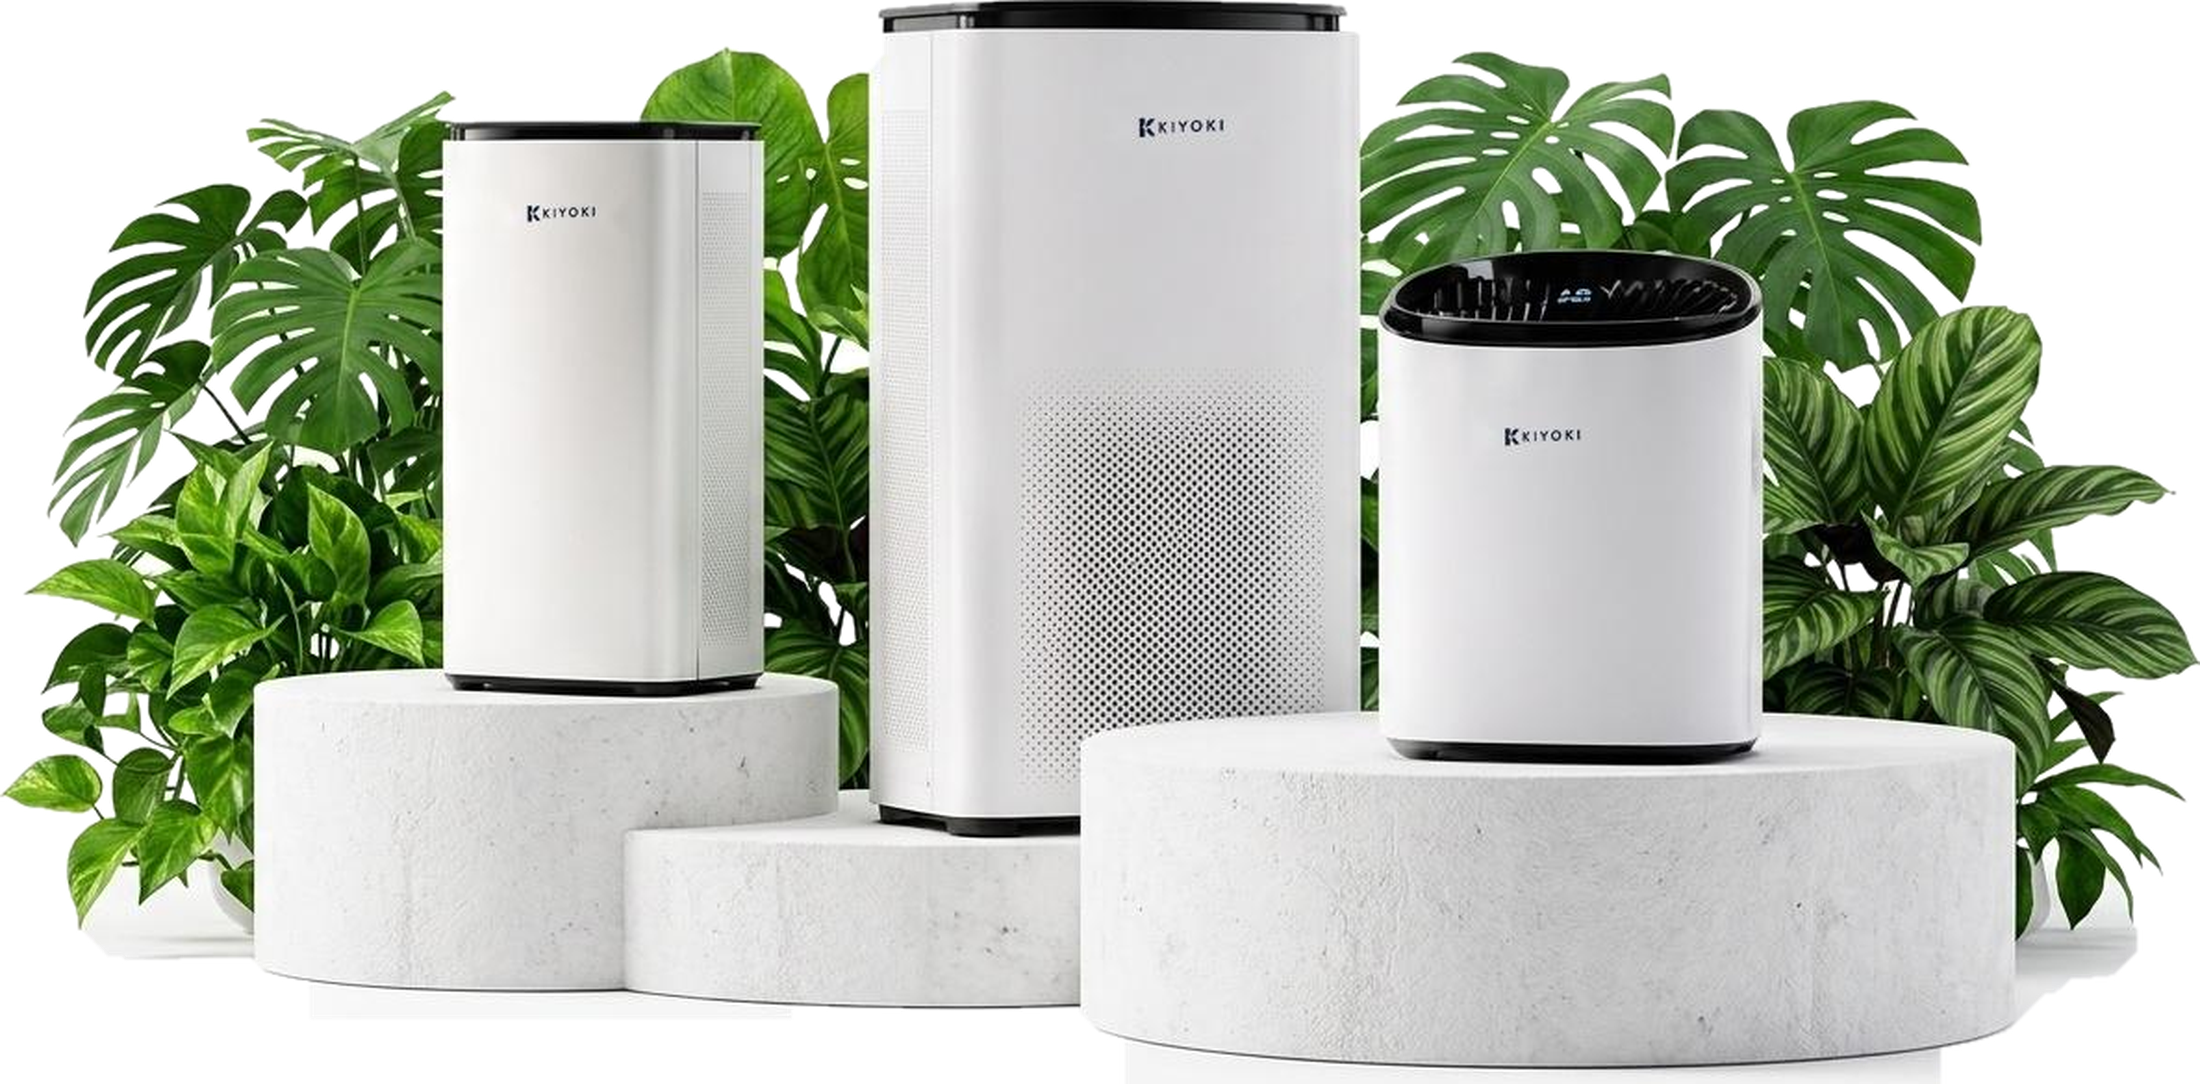
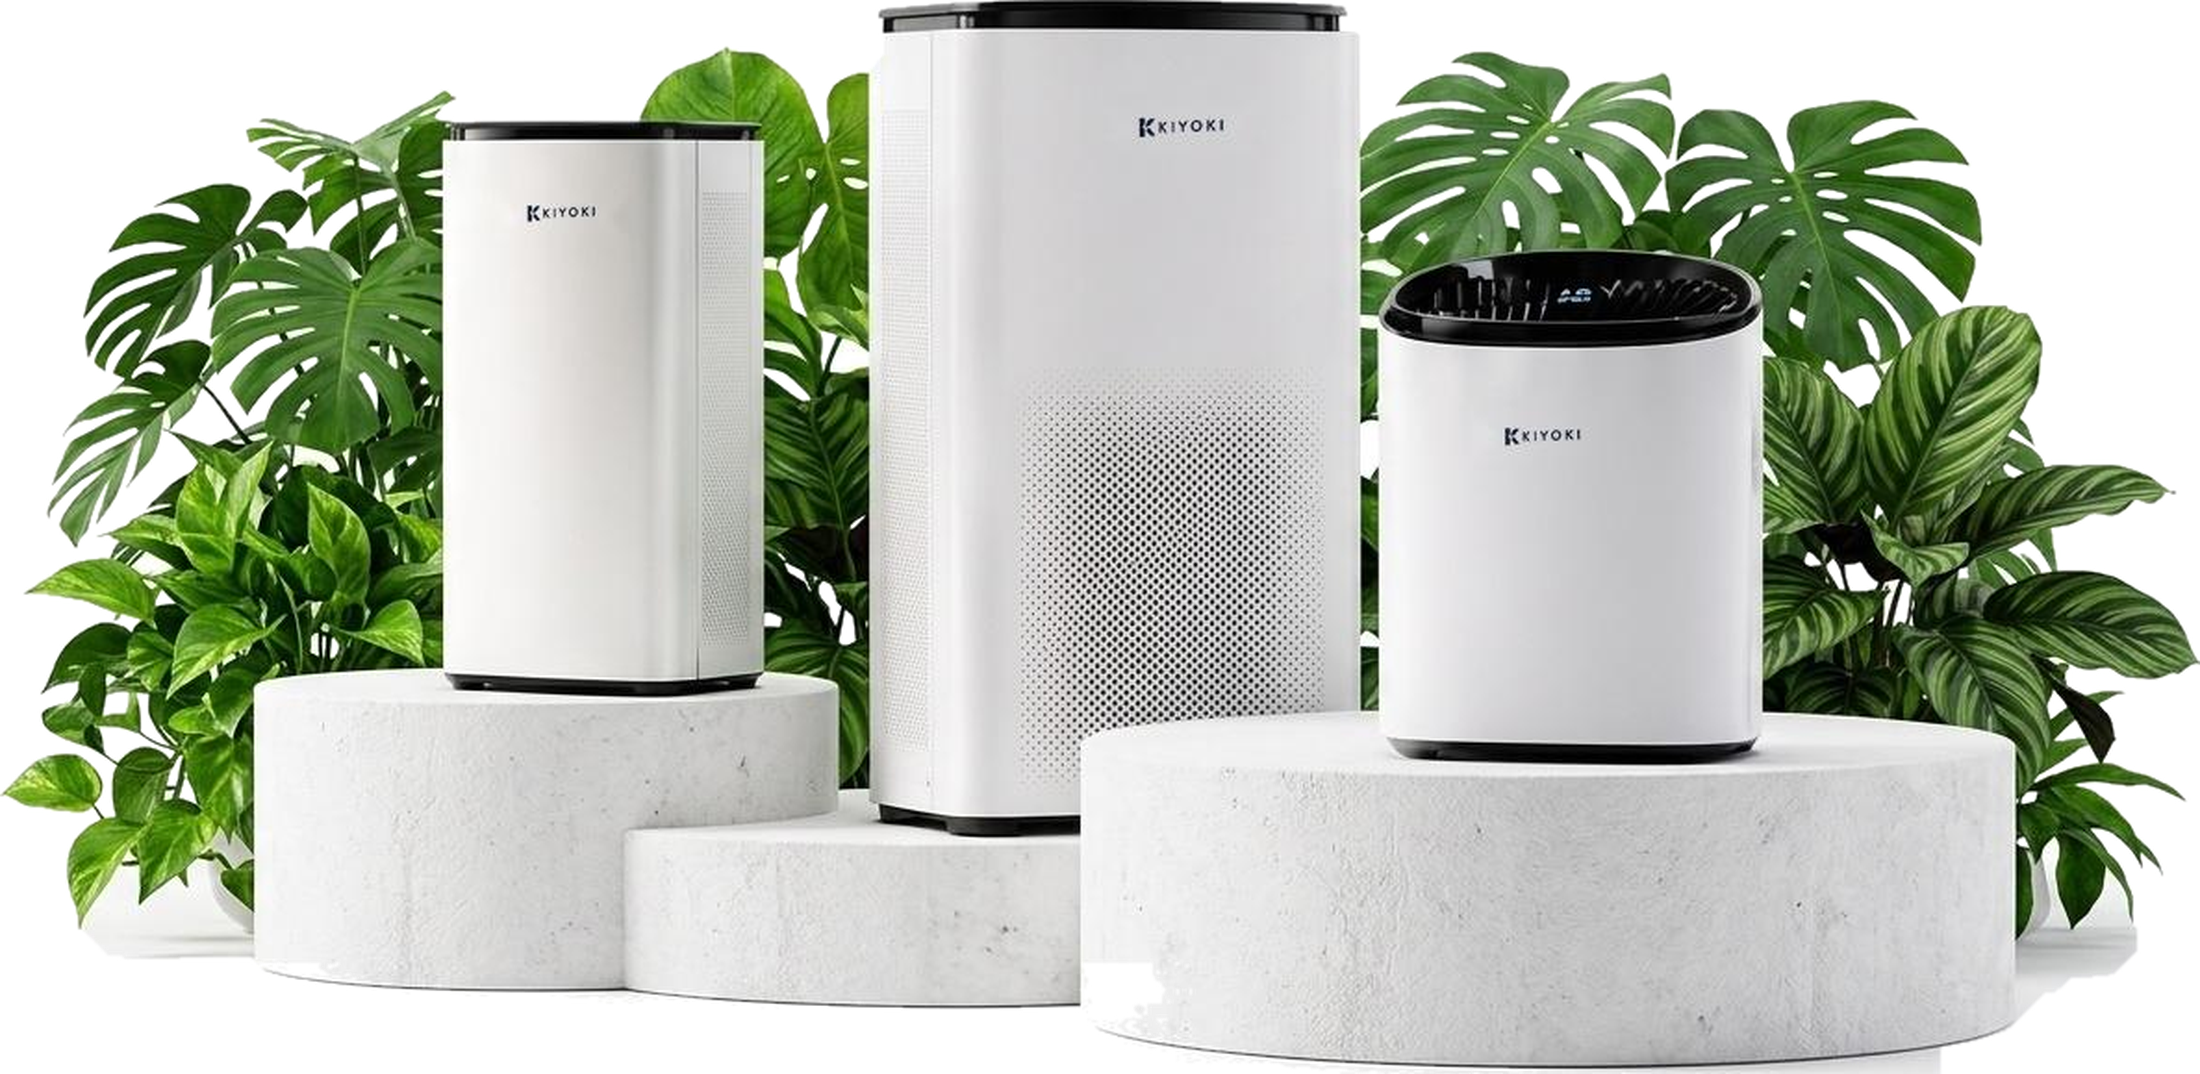
Lower product image slightly in AntiGravityBanner and remove bottom shelf artifacts

diff --git a/src/components/AntiGravityBanner.tsx b/src/components/AntiGravityBanner.tsx
@@ -41,13 +41,14 @@ export const AntiGravityBanner: React.FC<AntiGravityBannerProps> = ({
             Separate HD transparent asset (2200px wide) containing
             Kiyoki air purifiers on white cylindrical display platforms
             with natural houseplant foliage background.
-            Display platforms align visually to bottom edge.
+            Shifted downward via translate-y so the purifiers have
+            clean breathing room at the top and platforms sit grounded.
             ========================================================= */}
         <div className="absolute right-0 bottom-0 z-10 h-full w-[50%] sm:w-[54%] lg:w-[58%] flex items-end justify-end pointer-events-none select-none">
           <img
             src="/images/antigravity_purifiers_transparent.png"
             alt="Kiyoki Air Purifiers on Display Platforms"
-            className="h-full w-auto max-w-full object-contain object-bottom filter drop-shadow-[0_10px_25px_rgba(0,0,0,0.12)] transition-transform duration-500 ease-out"
+            className="h-full w-auto max-w-full object-contain object-bottom translate-y-3.5 sm:translate-y-5 lg:translate-y-6 filter drop-shadow-[0_10px_25px_rgba(0,0,0,0.12)] transition-transform duration-500 ease-out"
             loading="eager"
             decoding="async"
           />
